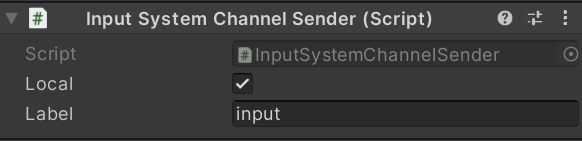
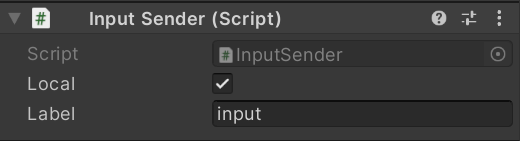
fix docs

diff --git a/com.unity.renderstreaming/Documentation~/sample-arfoundation.md b/com.unity.renderstreaming/Documentation~/sample-arfoundation.md
@@ -3,9 +3,6 @@
 This sample demonstrates operating the position and direction of a camera on another PC from the mobile device supported by [AR Foundation](https://docs.unity3d.com/Packages/com.unity.xr.arfoundation@latest).
 
 > [!NOTE]
-> In this version, it was checked on only iOS devices. Android and other devices are not supported by this sample.
-
-> [!NOTE]
 > If no codec is available on both sender and receiver, the video can not stream. Please note that the compatibility of codecs is different corresponding to platforms and graphics API.
 
 ## Sample scenes
@@ -23,8 +20,8 @@ To use this sample, You need to install additional packages shown following tabl
 
 | Unity version | Platform | packages |
 | ------------- | -------- | -------- |
-| Unity2019.4   | iOS      | `ARFoundation 2.1` |
-| Unity2020.3   | iOS      | `ARFoundation 4.1` |
+| Unity2019.4   | Android, iOS | `ARFoundation 2.1`, `XR Plugin Management 4.2` |
+| Unity2020.3   | Android, iOS | `ARFoundation 4.1`, `XR Plugin Management 4.2` |
 
 In addition, depending on the platform, each `XR plugin` package must be installed.
 
@@ -35,27 +32,27 @@ In addition, depending on the platform, each `XR plugin` package must be install
 | Unity2020.3   | iOS      | `ARKit XR Plugin 4.1` |
 | Unity2020.3   | Android  | `ARCore XR Plugin 4.1` |
 
-> [!NOTE]
-> In this version, Android is not supported by this sample.
-
 ## Build settings
 
 ### iOS
 
 In case of iOS, Please enable to `Requires ARKit support` on `Player Settings`. Additionally, `Architecture` should be selected `ARM64`.
 
-![Player Settings](images/playersettings_arfoundation.png)
+![Player Settings](images/playersettings_arkit.png)
 
-Open **Project Settings** window and select **XR Plug-in Management**. Set enable **ARKit** option in iOS tab.
+Open **Project Settings** window and select **XR Plug-in Management**. Set enable `ARKit` option in iOS tab.
 
 ![XRPlugin Enable ARKit](images/xrplugin_enable_arkit.png)
 
 ### Android
 
-In case of Android, `Architecture` should be selected `ARM64`, and 
+In case of Android, **Target Architectures** should be checked `ARM64`, and not checked `ARMv7`.
+
+![Player Settings](images/playersettings_arcore.png)
+
+Open **Project Settings** window and select **XR Plug-in Management**. Set enable `ARCore` option in Android tab.
 
 ![XRPlugin Enable ARCore](images/xrplugin_enable_arcore.png)
-
 
 ## Usage
 

diff --git a/com.unity.renderstreaming/Documentation~/data-streaming.md b/com.unity.renderstreaming/Documentation~/data-streaming.md
@@ -27,31 +27,8 @@ This component receives input events from Unity.
 
 | Parameter | Description | Default |
 | --------- | ----------- | ------- |
-| **Local** | Channel is local or remote | `False` |
-| **Label** | Channel label | Empty |
-
-## `DataSender` component
-
-This component sends any data from Unity.
-
-![DataSender inspector](images/datasender_inspector.png)
-
-### Properties
-
-| Parameter | Description | Default |
-| --------- | ----------- | ------- |
-| **Local** | Channel is local or remote | `False` |
-| **Label** | Channel label | Empty |
-
-## `DataReceiver` component
-
-This component receives any data from Unity.
-
-![DataReceiver inspector](images/datareceiver_inspector.png)
-
-### Properties
-
-| Parameter | Description | Default |
-| --------- | ----------- | ------- |
-| **Local** | Channel is local or remote | `False` |
-| **Label** | Channel label | Empty |
+| **Local** | Channel is local or remote. | `False` |
+| **Label** | Channel label. | Empty |
+| **Actions** | The set of Input Actions associated with the player. To receive input, each player must have an associated set of Actions. See documentation on Actions for details. | `None` |
+| *Default Map* | Which Action Map in `Actions` to enable by default. If set to `None`, then the player starts with no Actions being enabled. | `None` |
+| **Events** | Uses a separate UnityEvent for each individual type of message.  | Empty |

diff --git a/com.unity.renderstreaming/Documentation~/sample-bidirectional.md b/com.unity.renderstreaming/Documentation~/sample-bidirectional.md
@@ -28,7 +28,7 @@ Recommend enabling `Hardware Encoder support` on the `Render Streaming` inspecto
 
 ![Bidirectional Sample Setup](images/open_bidirectional_scene.png)
 
-4) Build and run application. After running application click `SetUp` button. (ConnectionID is autofill.)
+4) Build and run application. After running application click `SetUp` button. (**ConnectionID** is autofill.)
 
 ![Bidirectional Sample Setup](images/sample_bidirectional_setup.png)
 
